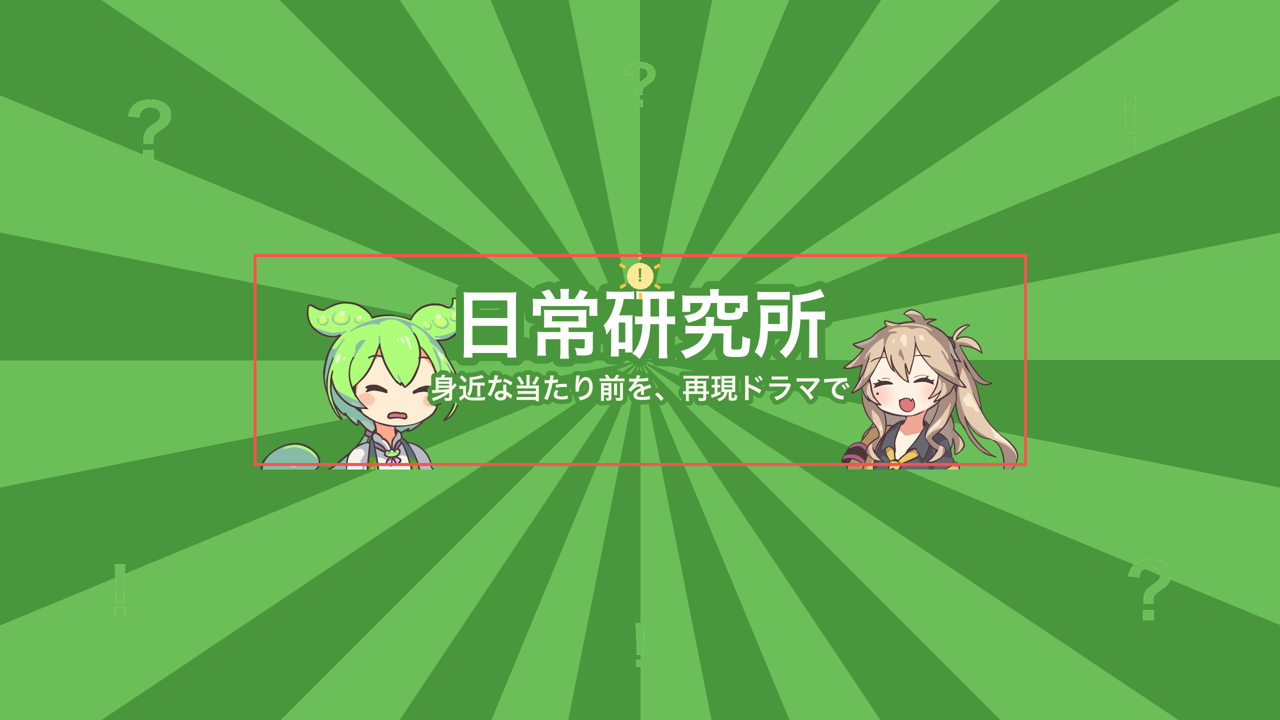
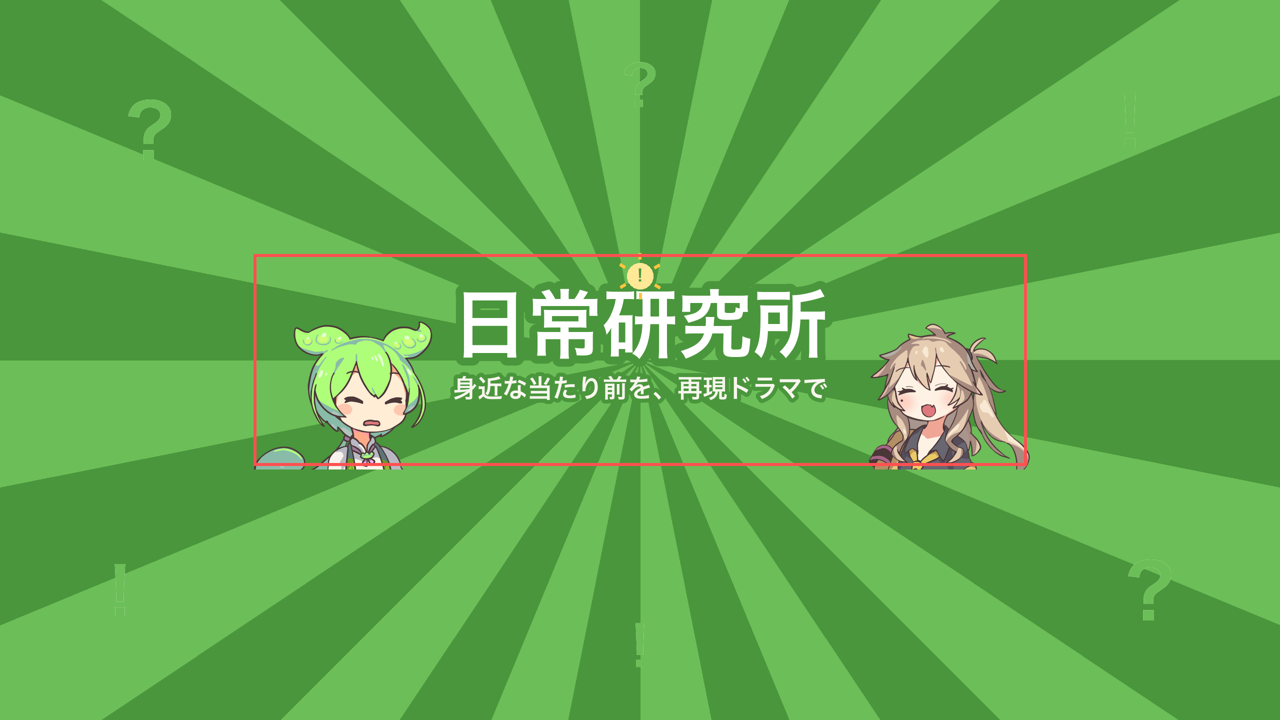
バナー修正: ずんだもんとサブタイトルの重なりを解消（キャラ縮小+左右へ寄せ・サブタイトル50px）

Changed region(s): [[0.1875, 0.3972, 0.8125, 0.6722]]

diff --git a/scripts/gen_channel_banner.py b/scripts/gen_channel_banner.py
@@ -66,19 +66,19 @@ def make_banner() -> Image.Image:
         return im.resize((w, int(im.height * w / im.width)), Image.LANCZOS)
 
     # 動画のステージと同じ向き: 左のずんだもんは反転して内側(右)へ、右のつむぎは元向きで内側(左)へ
-    zw = 430
+    zw = 370
     zu = head_crop("zundamon", "happy", zw, 0.40)
     zu = zu.transpose(Image.FLIP_LEFT_RIGHT)
-    img.paste(zu, (SX0 + 6, SY0 + SAFE_H - zu.height + 8), zu)
-    tw = 440
+    img.paste(zu, (SX0 - 6, SY0 + SAFE_H - zu.height + 8), zu)
+    tw = 400
     ts = head_crop("tsumugi", "happy", tw, 0.38)
-    img.paste(ts, (SX0 + SAFE_W - tw - 6, SY0 + SAFE_H - ts.height + 8), ts)
+    img.paste(ts, (SX0 + SAFE_W - tw + 16, SY0 + SAFE_H - ts.height + 8), ts)
     # 中央の文字（キャラと横に並ぶ幅に抑える）
     d = ImageDraw.Draw(img)
     ctext(d, W / 2, SY0 + 140, "日常研究所", font(150), (255, 255, 255),
           stroke=ZUNDA_DK, sw=16)
     ctext(d, W / 2, SY0 + 268, "身近な当たり前を、再現ドラマで",
-          font(56), CREAM, stroke=ZUNDA_DK, sw=9)
+          font(50), CREAM, stroke=ZUNDA_DK, sw=8)
     # 豆電球ワンポイント（タイトルの真上・セーフエリア内）
     bx, by = W / 2, SY0 + 44
     d.ellipse([bx - 26, by - 26, bx + 26, by + 26], fill=(255, 232, 150))
